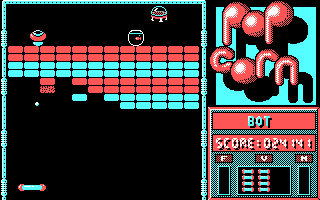
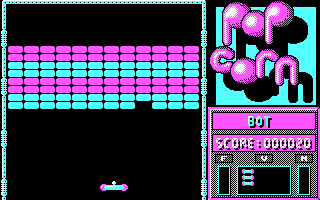
The screenshots in the authors' own colours
Both were captured before the palette was fixed, so they showed the cyan, red
and white a real CGA forces in mode 05h - which is not what anyone involved
saw. Retaken from the port as it renders now: light cyan, light magenta and
white, palette 1 at high intensity, which is what an EGA or VGA board makes of
mode 05h and what the game looked like on the machines it was written on and
played on.

The README says so where the pictures are, rather than leaving a reader to
wonder why a CGA game is magenta - and points at the emulator's `--rgbi` for
anyone who wants to see what the hardware itself would have done.

Both are the port's own output through popcorn-dev --shot: the menu once it
has finished drawing itself, and level 1 with the bot playing.

Claude-Session: https://claude.ai/code/session_018f6qcqtirEpUqcyCeWGYAq

diff --git a/README.md b/README.md
@@ -19,6 +19,20 @@ play. The name in the panel is the bot's - `popcorn-dev --autoplay` plays the
 game by itself, which is how the port gets watched without a person at the
 paddle.
 
+**On the colours.** The game asks BIOS for mode 05h, and on a real CGA driving
+an RGBI monitor that clears the colour burst and forces cyan, red and white
+whatever the palette register says. That is not the picture above, and it is
+not the one the authors had. A card that only *emulates* mode 05h does not
+carry the quirk over, and by 1988 the game was as likely to be running on an
+EGA or VGA board through the newer connector - where the palette bit governs,
+BIOS has left palette 1 at high intensity in the colour-select register, and
+the game comes up in light cyan, light magenta and white. That is what its
+authors saw while they wrote it, what a player of the time saw, and what the
+port draws. DOSBox shows the same.
+
+The CGA's own output is still reachable for comparison: the emulator this port
+is checked against renders it with `--rgbi`.
+
 **The game is here**, because its authors put it in the public domain. From
 `popcorn.doc`, in their own words:
 
